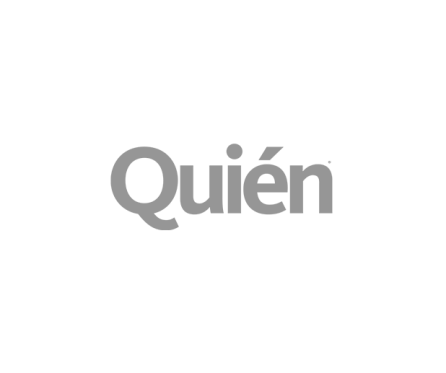
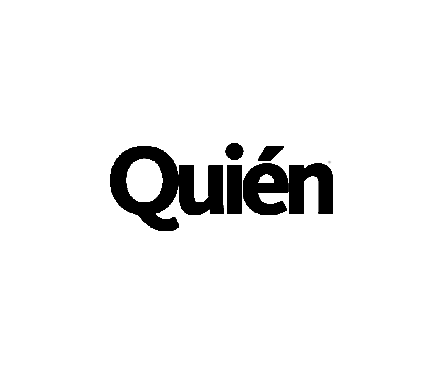
overley hover and nuew img

Changed region(s): [[0.2332, 0.3834, 0.7578, 0.6193]]

diff --git a/index.html b/index.html
@@ -206,18 +206,47 @@
 
           <div class="row">
               <div class="d-flex justify-content-between">
-                  <img class="img-cont" src="./assets/img/services/4.jpg">
-                  <img class="img-cont" src="./assets/img/services/3.jpg">
-                  <img class="img-cont" src="./assets/img/services/5.jpg">
-                  <img class="img-cont" src="./assets/img/services/7.jpg">
+
+                  <div class="container_imagen">
+                      <img class="img-cont" src="./assets/img/services/4.jpg">
+                      <div class="overlay"><p><br><br><br>CULINARY</p></div>
+                  </div>
+
+                  <div class="container_imagen">
+                      <img class="img-cont" src="./assets/img/services/3.jpg">
+                      <div class="overlay"><p><br><br><br>FLORAL & DECOR</p></div>
+                  </div>
+
+                  <div class="container_imagen">
+                      <img class="img-cont" src="./assets/img/services/5.jpg">
+                      <div class="overlay"><p><br><br><br>CANDY TABLES</p></div>
+                  </div>
+
+                  <div class="container_imagen">
+                      <img class="img-cont" src="./assets/img/services/7.jpg">
+                      <div class="overlay"><p><br><br><br>PHOTO & VIDEO</p></div>
+                  </div>
+
               </div>
           </div>
 
            <div class="row mt-5">
                <div class="d-flex justify-content-evenly">
-                  <img class="img-cont" src="./assets/img/services/1.jpg">
-                  <img class="img-cont" src="./assets/img/services/6.jpg">
-                  <img class="img-cont" src="./assets/img/services/2.jpg">
+                  <div class="container_imagen">
+                      <img class="img-cont" src="./assets/img/services/1.jpg">
+                      <div class="overlay"><p><br><br><br>MUSIC & <br><span class="span_overley">ENTERTAINMENT</span></p></div>
+                  </div>
+
+                  <div class="container_imagen">
+                    <img class="img-cont" src="./assets/img/services/6.jpg">
+                      <div class="overlay2"><p><br><br><br><br><br><br><br>TRANSPORTATION</p></div>
+                  </div>
+
+                  <div class="container_imagen">
+                    <img class="img-cont" src="./assets/img/services/2.jpg">
+                      <div class="overlay2"><p><br><br><br><br><br><br><br>ACCOMMODATIONS</p></div>
+                  </div>
+
               </div>
 
           </div>
@@ -230,58 +259,6 @@
     <!--        celebrating-->
     <!--        _____________________-->
 
-<!--<section class=" py-5 text-center container-fluid">-->
-<!--      <div class="row py-lg-5">-->
-<!--        <div class="col-12">-->
-<!--          <h1 class="tittle_newyork ">LIFE IS WORTH</h1>-->
-<!--          <h1 class="tittle_thin ">CELEBRATING</h1>-->
-<!--          <hr class="mt-2 text-center" style="width:200px; margin: auto;margin-bottom: 7rem!important;">-->
-
-<!--            <div class="row p-5 bg-secundario position-relative" style="height: 74vh;">-->
-
-<!--                <div class="col-md-4 position-absolute" style="top: -30px">-->
-<!--                    <div class="lc-block ">-->
-<!--                        <img class="img-fluid card_image-cel " src="./assets/img/celebrating/1.JPG" loading="lazy">-->
-<!--                    </div>-->
-<!--                    <div class="lc-block">-->
-<!--                        <div editable="rich">-->
-<!--                        </div>-->
-<!--                    </div>-->
-<!--                </div>-->
-
-<!--                <div class="col-md-4 position-absolute" style="top: -12%;left:37%;">-->
-<!--                    <div class="lc-block">-->
-<!--                        <div editable="rich">-->
-<!--                            <p style="opacity: 0">-->
-<!--                                auris placerat eleifend leo. Quisque sit amet est et sapien ullamcorper pharetra.&nbsp;-->
-<!--                                auris placerat eleifend leo. Quisque sit amet est et sapien ullamcorper pharetra.&nbsp;-->
-<!--                                auris placerat eleifend leo. Quisque sit amet est et sapien ullamcorper pharetra.&nbsp;-->
-<!--                            </p>-->
-<!--                        </div>-->
-<!--                    </div>-->
-<!--                    <div class="lc-block">-->
-<!--                        <img class="img-fluid card_image-cel" src="./assets/img/celebrating/2.jpg" loading="lazy">-->
-<!--                    </div>-->
-<!--                </div>-->
-
-<!--                <div class="col-md-4 position-absolute" style="top: -6%;left:66%;">-->
-<!--                    <div class="lc-block">-->
-<!--                        <img class="img-fluid card_image-cel" src="./assets/img/celebrating/3.jpg" loading="lazy">-->
-<!--                    </div>-->
-<!--                    <div class="lc-block">-->
-<!--                        <div editable="rich">-->
-<!--                            <p>-->
-<!--                            </p>-->
-<!--                        </div>-->
-<!--                    </div>-->
-<!--                </div>-->
-
-<!--            </div>-->
-
-<!--        </div>-->
-<!--      </div>-->
-<!--    </section>-->
-
    <section class=" py-5 text-center container-fluid">
       <div class="row py-lg-5">
         <div class="col-12">
@@ -293,10 +270,7 @@
                 <div class="col-md-4 ">
                     <div class="lc-block  position-relative" style="">
                         <img class="img-fluid card_image-cel position-relative " src="./assets/img/celebrating/1.jpg" loading="lazy" style="top: -100px">
-                    </div>
-                    <div class="lc-block">
-                        <div editable="rich">
-                        </div>
+                        <div class="overlay_cel"><p><br><br><br>MUSIC & <br>ENTERTAINMENT</p></div>
                     </div>
                 </div>
 
@@ -319,12 +293,6 @@
                     <div class="lc-block position-relative">
                         <img class="img-fluid card_image-cel position-relative" src="./assets/img/celebrating/3.jpg" loading="lazy" style="top: -100px">
                     </div>
-                    <div class="lc-block">
-                        <div editable="rich">
-                            <p>
-                            </p>
-                        </div>
-                    </div>
                 </div>
 
             </div>
@@ -345,31 +313,31 @@
             <div class="row align-items-center">
 
               <div class="col-3">
-                  <img class="" style="width: 190px;" src="./assets/img/prensa/33.png">
+                  <img class="brand_logo" style="width: 190px;" src="./assets/img/prensa/33.png">
               </div>
 
               <div class="col-3">
-                  <img class="" style="width: 140px;" src="./assets/img/prensa/55.png">
+                  <img class="brand_logo" style="width: 140px;" src="./assets/img/prensa/55.png">
               </div>
 
               <div class="col-3">
-                  <img class="" style="width: 90px;" src="./assets/img/prensa/54.png">
+                  <img class="brand_logo" style="width: 90px;" src="./assets/img/prensa/54.png">
               </div>
 
               <div class="col-3">
-                  <img class="" style="width: 110px;" src="./assets/img/prensa/34.png">
+                  <img class="brand_logo" style="width: 110px;" src="./assets/img/prensa/34.png">
               </div>
 
               <div class="col-4">
-                  <img class="" style="width: 100px;" src="./assets/img/prensa/32.png">
+                  <img class="brand_logo" style="width: 100px;" src="./assets/img/prensa/32.png">
               </div>
 
               <div class="col-4">
-                  <img class="" style="width: 200px;" src="./assets/img/prensa/35.png">
+                  <img class="brand_logo" style="width: 200px;" src="./assets/img/prensa/35.png">
               </div>
 
               <div class="col-4">
-                <img class="" style="width: 130px;" src="./assets/img/prensa/31.png">
+                <img class="brand_logo" style="width: 130px;" src="./assets/img/prensa/31.png">
               </div>
 
           </div>

diff --git a/assets/css/generales.css b/assets/css/generales.css
@@ -1,3 +1,8 @@
+@font-face{
+    font-family: "Montserrat-Medium";
+    src: url("../fonts/Montserrat/Montserrat-Medium.ttf");
+}
+
 .dropdown-toggle::after{
     display: none;
     font-family: "Montserrat-SemiBold";
@@ -26,9 +31,89 @@
       border: 6px solid #E4E4E4;
     }
 
+    .container_imagen{
+        position: relative;
+
+    }
+
+    .overlay {
+      position: absolute;
+      bottom: 0;
+      background: rgba(228, 228, 228, 0.6); /* Black see-through */
+      color: #2F2F34;
+      width:12vw;
+      height: 12vw;
+      font-family: "Montserrat-Medium";
+      font-size: 16px;
+      font-weight: 600;
+      letter-spacing: 5px;
+      margin-top: 10px;
+      transition: .5s ease;
+      opacity:0;
+      text-align: center;
+    }
+
+    .overlay2 {
+      position: absolute;
+      bottom: 0;
+      background: rgba(228, 228, 228, 0.6); /* Black see-through */
+      color: #2F2F34;
+      width:12vw;
+      height: 12vw;
+      font-family: "Montserrat-Medium";
+      font-size: 8px;
+      font-weight: 600;
+      letter-spacing: 5px;
+      margin-top: 10px;
+      transition: .5s ease;
+      opacity:0;
+      text-align: center;
+    }
+
+    .overlay_cel{
+      position: absolute;
+      bottom: 0;
+      background: rgba(228, 228, 228, 0.6); /* Black see-throughcard_image-cel */
+      color: #2F2F34;
+      width:100%;
+      height: auto;
+      font-family: "Montserrat-Medium";
+      font-size: 8px;
+      font-weight: 600;
+      letter-spacing: 5px;
+      margin-top: 10px;
+      transition: .5s ease;
+      opacity:0;
+      text-align: center;
+    }
+
+    .span_overley{
+      font-size: 9px;
+      font-weight: 600;
+      letter-spacing: 5px;
+    }
+
+    .container_imagen:hover .overlay {
+       opacity: 1;
+
+    }
+
+    .container_imagen:hover .overlay2 {
+       opacity: 1;
+
+    }
+
     .img-cont2 {
         width: 100px;
 
+    }
+
+    .brand_logo:hover{
+        opacity: 1;
+    }
+
+    .brand_logo{
+        opacity: 0.5;
     }
 
     .video_style{

diff --git a/assets/css/fonts.css b/assets/css/fonts.css
@@ -98,7 +98,6 @@
     src: url("../fonts/Heebo/Heebo-Light.ttf");
 }
 
-
 .montserrat-black{
     font-family: "Montserrat-Black";
 }
@@ -230,7 +229,7 @@
     font-weight: 100;
     letter-spacing: 7px;
     text-shadow: 2px 1px 2px rgb(0 0 0 / 18%);
-     font-size: 25px;
+    font-size: 25px;
 }
 
 
